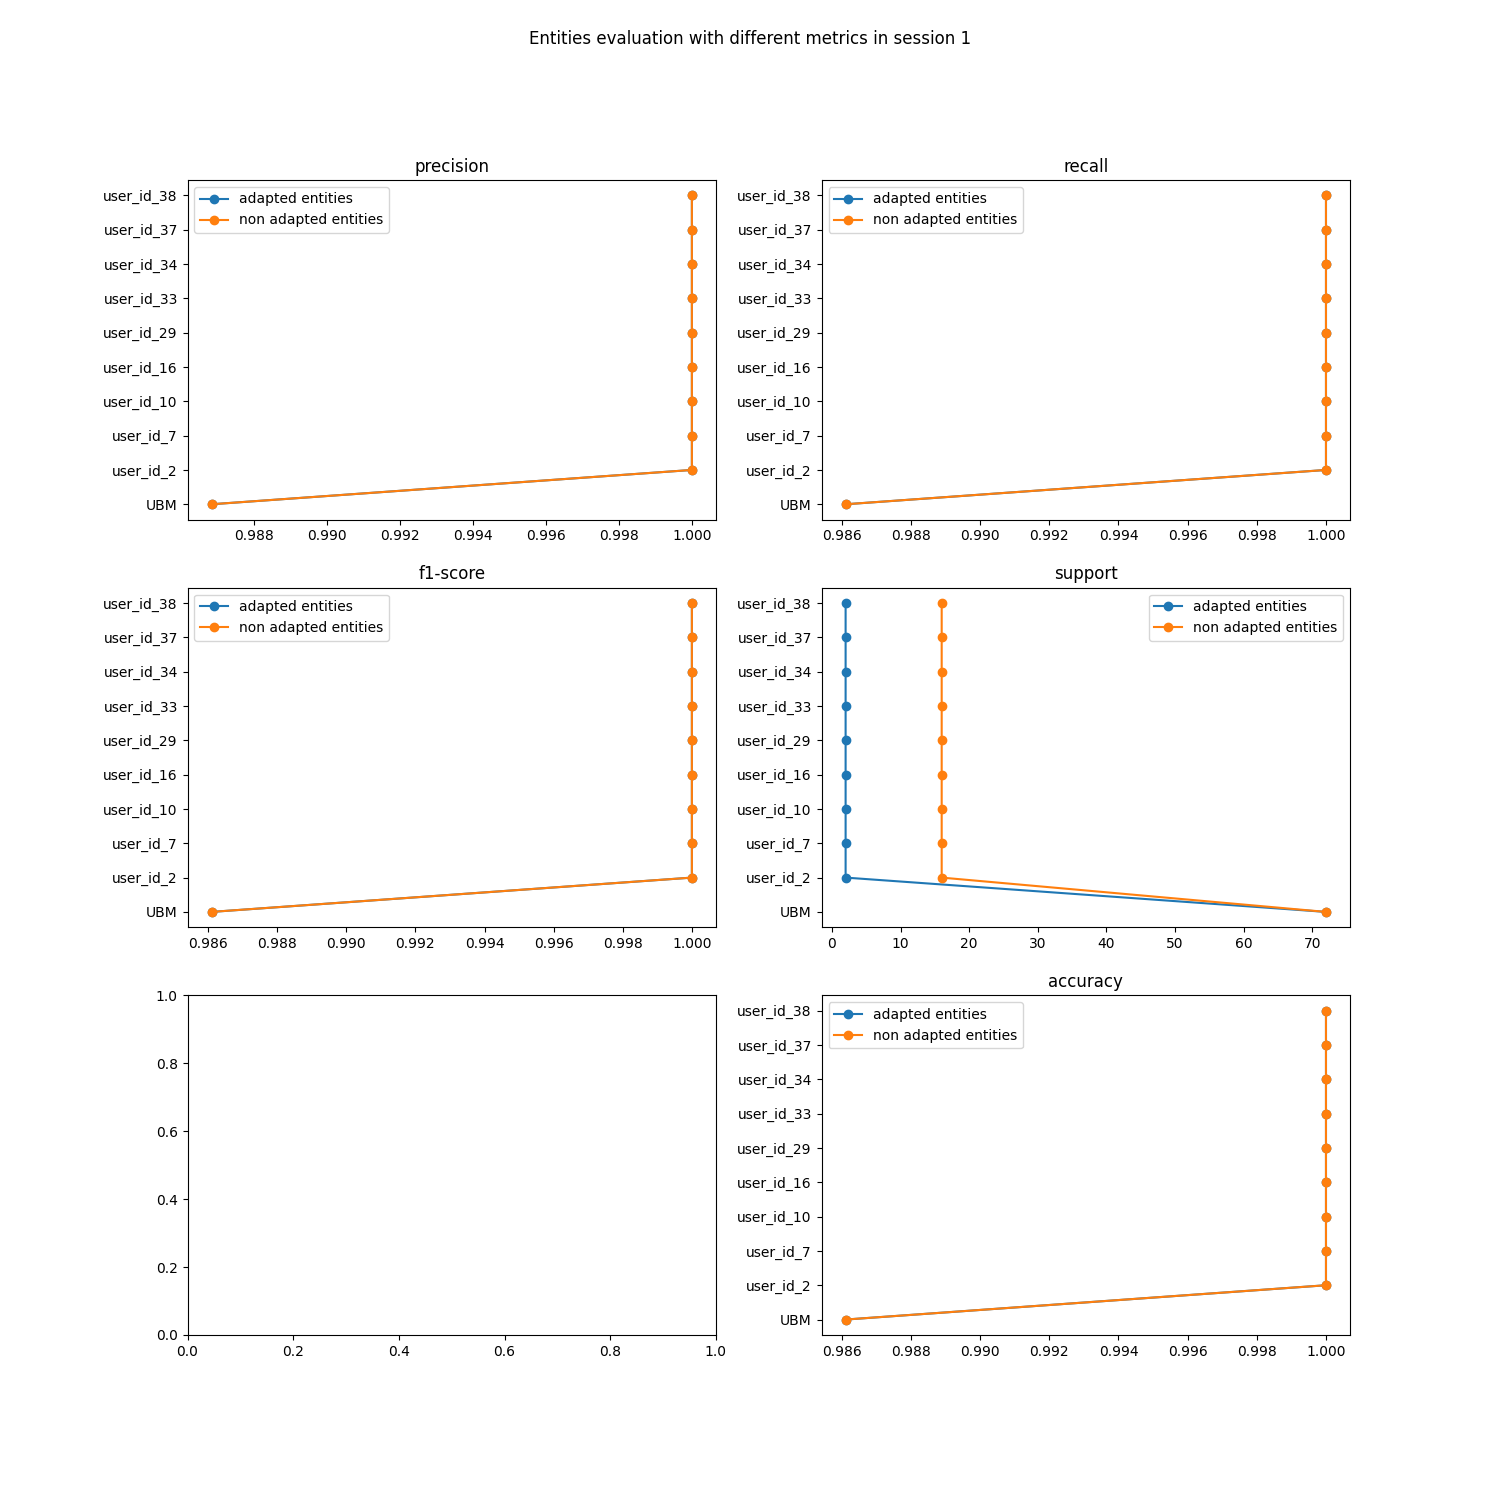
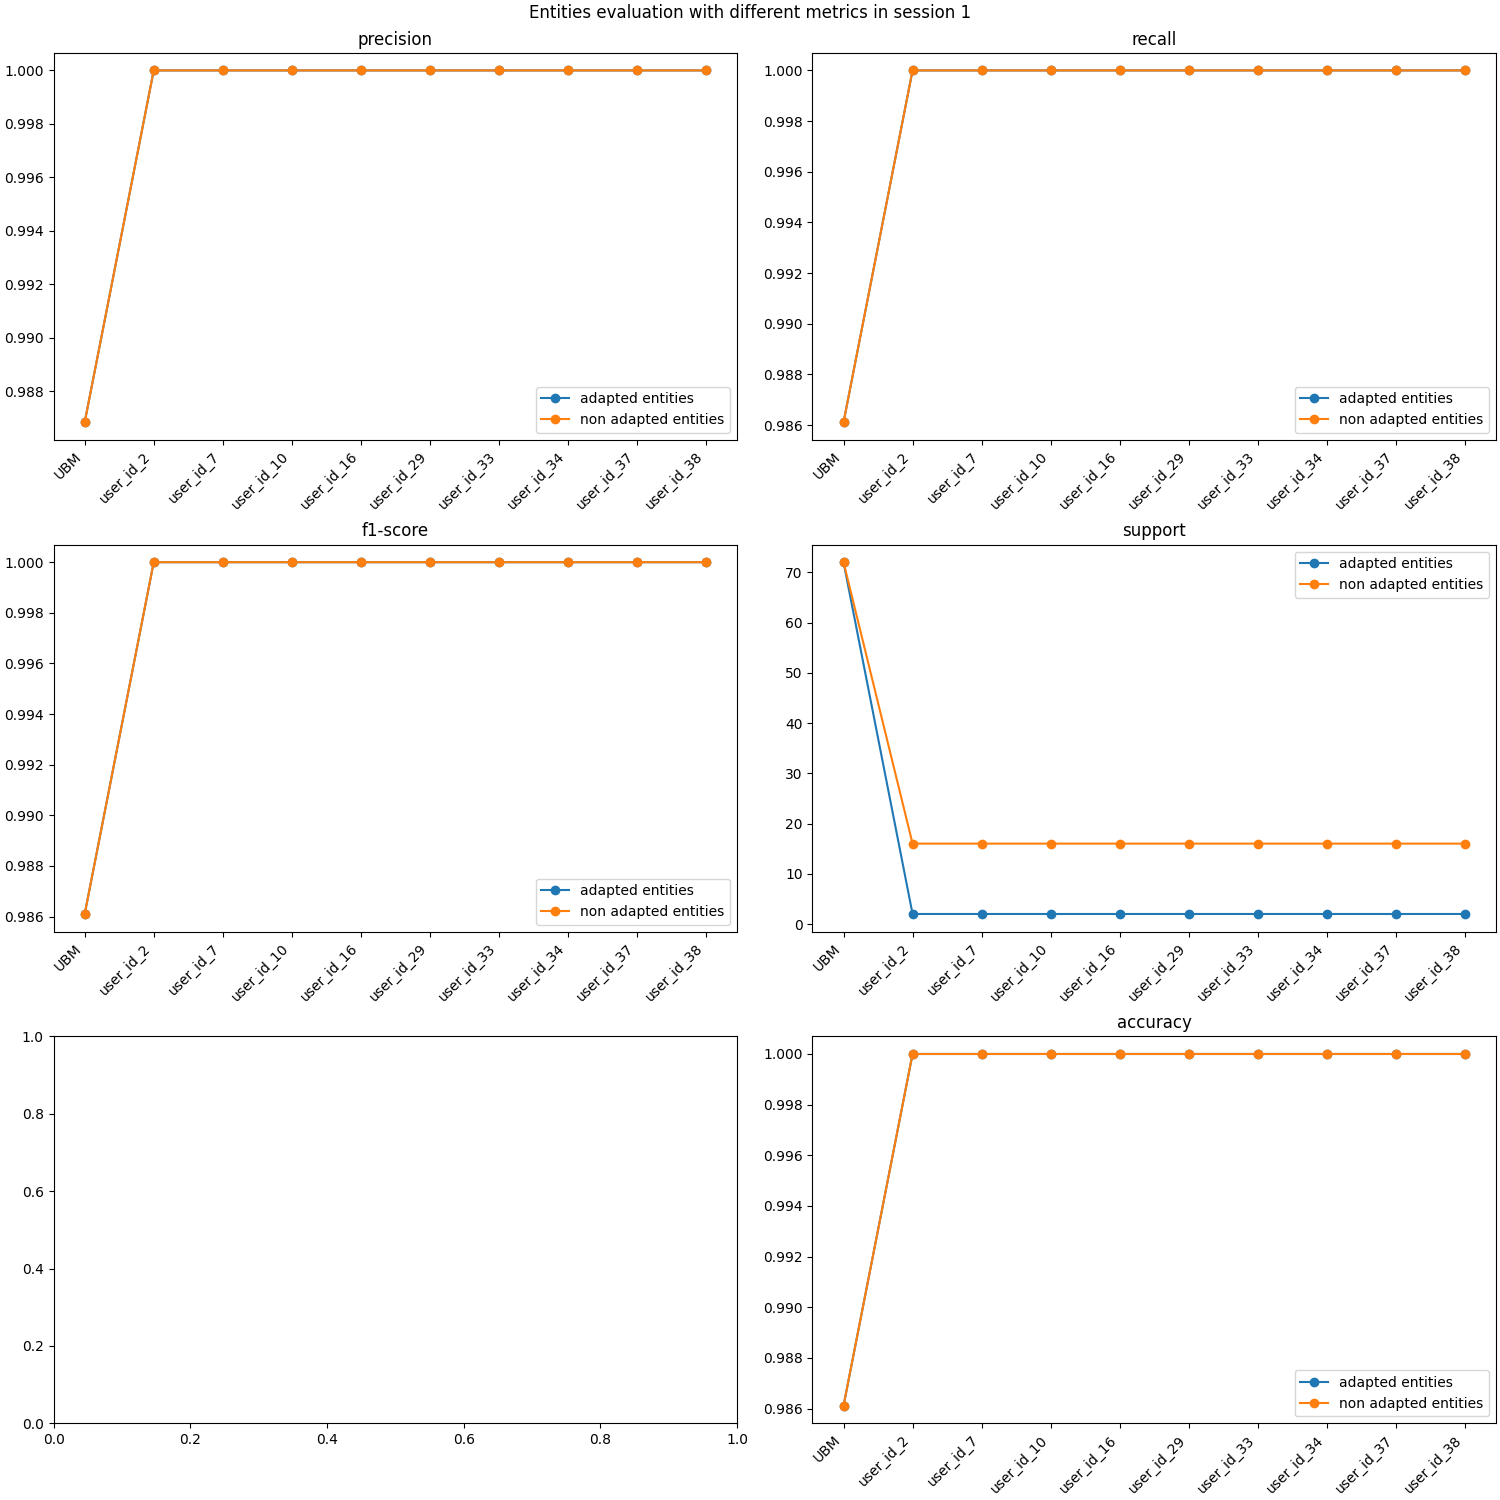
X-axis overlapping problem

diff --git a/Utilities.py b/Utilities.py
@@ -305,17 +305,18 @@ def plot_all_metrics(run, others, task_type, session_nr):
 
     if task_type == "Classification":
         rows_columns_gragh = [(0, 0), (0, 1), (1, 0), (1, 1), (2, 1)]
-        figure, axes = plt.subplots(nrows=3, ncols=2, figsize=(15, 15))
+        figure, axes = plt.subplots(nrows=3, ncols=2, figsize=(15, 15), constrained_layout=True)
     else:
         rows_columns_gragh = [(0, 0), (0, 1), (1, 0), (1, 1)]
-        figure, axes = plt.subplots(nrows=2, ncols=2, figsize=(15, 15))
+        figure, axes = plt.subplots(nrows=2, ncols=2, figsize=(15, 15), constrained_layout=True)
 
     figure.suptitle("Entities evaluation with different metrics in session " + str(session_nr))
 
     for (r, c), (metric, values) in zip(rows_columns_gragh, run_by_metric.items()):
-        axes[r, c].plot(values, x_index, 'o-', label="adapted entities")
-        axes[r, c].plot(others_by_metric[metric], x_index, 'o-', label="non adapted entities")
+        axes[r, c].plot(x_index, values, 'o-', label="adapted entities")
+        axes[r, c].plot(x_index, others_by_metric[metric], 'o-', label="non adapted entities")
         axes[r, c].set_title(metric)
+        axes[r, c].set_xticklabels(x_index, rotation=45, ha='right')
         axes[r, c].legend()
 
     plt.savefig("results/entities_and_others_evaluation_metrics_in_session_" + str(session_nr) + ".png")
@@ -340,17 +341,18 @@ def plot_sessions_graphs(persons_avg_dict, others_avg_dict, task_type):
 
     if task_type == "Classification":
         rows_columns_gragh = [(0, 0), (0, 1), (1, 0), (1, 1), (2, 0), (2, 1)]
-        figure, axes = plt.subplots(nrows=3, ncols=2, figsize=(13, 13))
+        figure, axes = plt.subplots(nrows=3, ncols=2, figsize=(13, 13), constrained_layout=True)
     else:
         rows_columns_gragh = [(0, 0), (0, 1), (1, 0), (1, 1), (2, 1)]
-        figure, axes = plt.subplots(nrows=3, ncols=2, figsize=(13, 13))
+        figure, axes = plt.subplots(nrows=3, ncols=2, figsize=(13, 13), constrained_layout=True)
 
     figure.suptitle("Avg evaluation with different metrics in all sessions")
 
     for (r, c), (metric, values) in zip(rows_columns_gragh, persons_avg_by_metric.items()):
-        axes[r, c].plot(values, x_index, 'o-', label="adapted entities")
-        axes[r, c].plot(others_avg_by_metric[metric], x_index, 'o-', label="non adapted entities")
+        axes[r, c].plot(x_index, values, 'o-', label="adapted entities")
+        axes[r, c].plot(x_index, others_avg_by_metric[metric], 'o-', label="non adapted entities")
         axes[r, c].set_title(metric)
+        axes[r, c].set_xticklabels(x_index, rotation=45, ha='right')
         axes[r, c].legend()
 
     plt.savefig("results/persons_and_others_avg_evaluation_all_sessions.png")
@@ -387,16 +389,17 @@ def plot_incremental_graphs(eva_dict, task_type):
 
     if task_type == "Classification":
         rows_columns_gragh = [(0, 0), (0, 1), (1, 0), (1, 1), (2, 0), (2, 1)]
-        figure, axes = plt.subplots(nrows=3, ncols=2, figsize=(13, 13))
+        figure, axes = plt.subplots(nrows=3, ncols=2, figsize=(13, 13), constrained_layout=True)
     else:
         rows_columns_gragh = [(0, 0), (0, 1), (1, 0), (1, 1), (2, 1)]
-        figure, axes = plt.subplots(nrows=3, ncols=2, figsize=(13, 13))
+        figure, axes = plt.subplots(nrows=3, ncols=2, figsize=(13, 13), constrained_layout=True)
 
     figure.suptitle("Avg incremental evaluation with different metrics from all sessions")
 
     for (r, c), (metric, values) in zip(rows_columns_gragh, eva_by_metric.items()):
-        axes[r, c].plot(values, x_index, 'o-', label="avg incremental evaluation")
+        axes[r, c].plot(x_index, values, 'o-', label="avg incremental evaluation")
         axes[r, c].set_title(metric)
+        axes[r, c].set_xticklabels(x_index, rotation=45, ha='right')
         axes[r, c].legend()
 
     plt.savefig("results/avg_incremental_evaluation_all_sessions.png")
